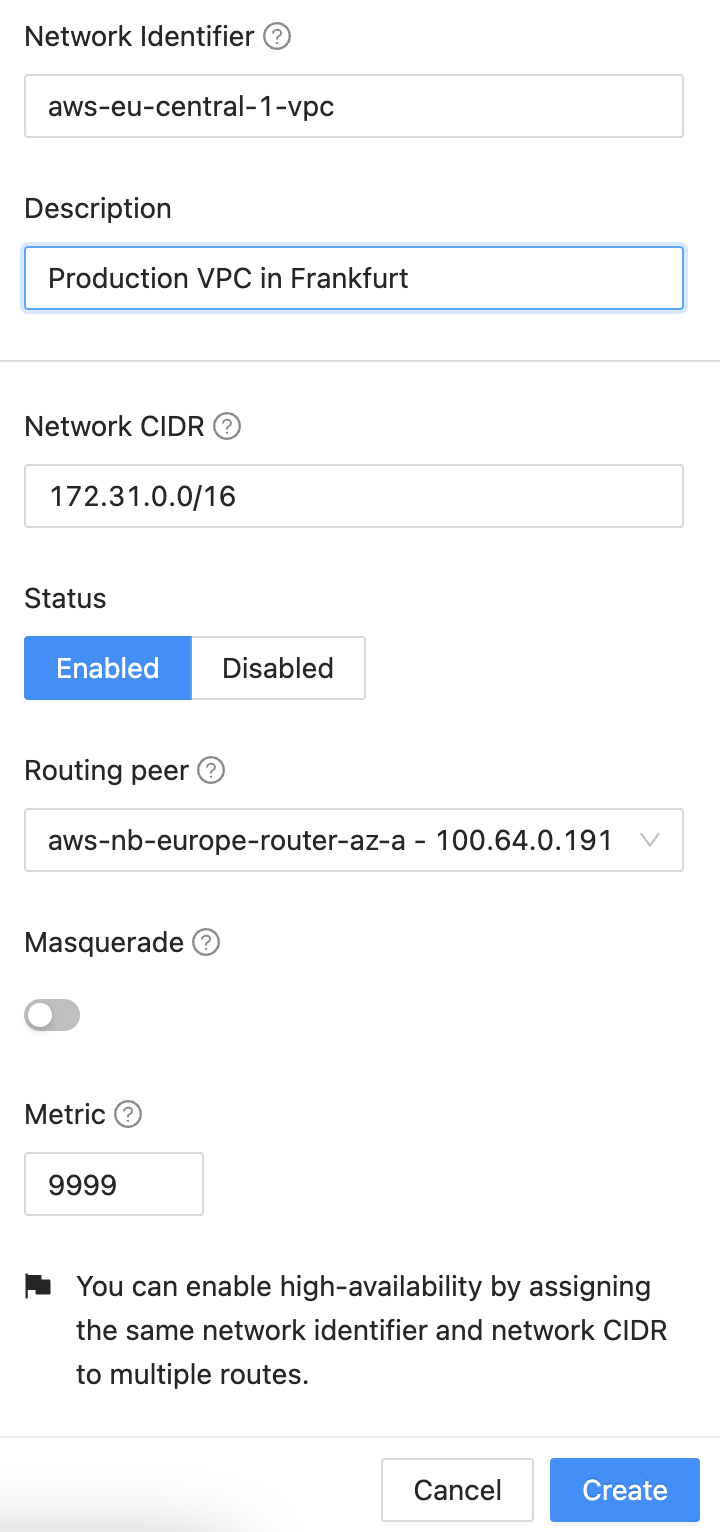
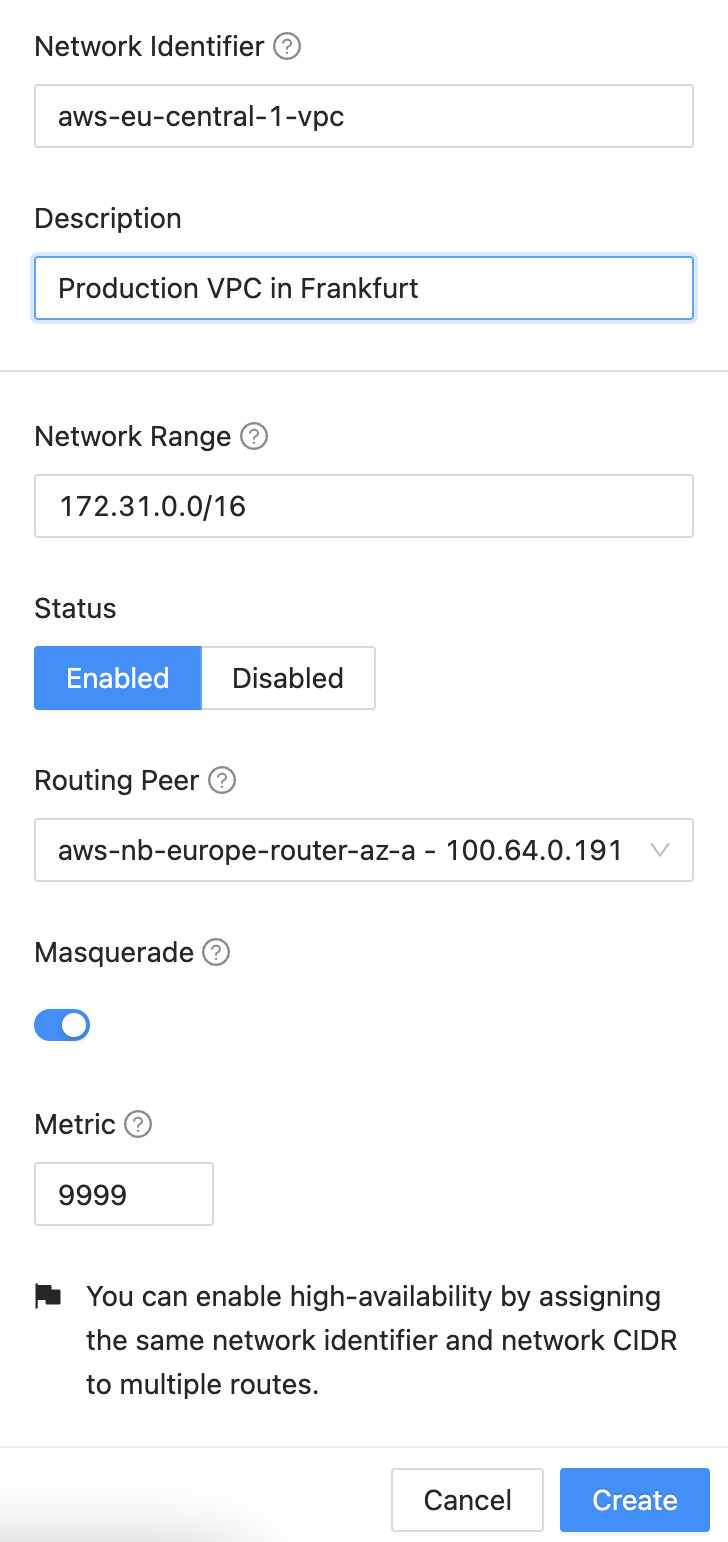
Add network routes documentation

diff --git a/docs/how-to-guides/routes.md b/docs/how-to-guides/routes.md
@@ -17,22 +17,22 @@ In these cases, you can configure network routes assigning routing peers to conn
 
 ## Concepts
 ### Network routes
-A network route describes the network you want to connect with your NetBird peers. It has an identifier, a network CIDR, a routing peer, and some parameters available for managing priority and masquerading.
+A network route describes the network you want to connect with your NetBird peers. It has an identifier, a network range, a routing peer, and some parameters available for managing priority and masquerading.
 :::info
 Network routes is available for NetBird v0.9.0 or later.
 :::
-### Network identifiers and CIDRs
-Network identifiers are names for each network you want to route traffic from your peers, and network CIDR are IP ranges in CIDR notation which refers to an external network. The combination of identifiers and these ranges makes a single network.
+### Network identifiers and ranges
+Network identifiers are names for each network you want to route traffic from your peers, and ranges are IP ranges declared in CIDR notation which refers to an external network. The combination of identifiers and these ranges makes a single network.
 ### Routing peer
 A routing peer is a node that will route packets between your routed network and the other NetBird peers.
 :::info
 Only Linux OS nodes can be assigned as routing peers.
 :::
 ### High availability routes
-A highly available route is a combination of multiple routes with the same network identifier and CIDR. They have different routing peers offering high-available paths for communication between your peers and external networks.
+A highly available route is a combination of multiple routes with the same network identifier and ranges. They have different routing peers offering high-available paths for communication between your peers and external networks.
 Nodes connected to routing peers will choose one of them to route packets to external networks based on connection type and defined metrics.
 ### Masquerade
-Masquerade hides other NetBird network IPs behind the routing peer local address when accessing the target Network CIDR. This option allows access to your private networks without configuring routes on your local routers or other devices.
+Masquerade hides other NetBird network IPs behind the routing peer local address when accessing the target Network range. This option allows access to your private networks without configuring routes on your local routers or other devices.
 
 If you don't enable this option, you must configure a route to your NetBird network in your external network infrastructure.
 ### Metric and priority
@@ -57,6 +57,3 @@ Once you are done filling the route information, you can click on the `create` b
     <img src="/docs/img/how-to-guides/netbird-network-routes-saved-new.png" alt="high-level-dia" width="600" style={{boxShadow: '0 4px 8px 0 rgba(0, 0, 0, 0.2), 0 6px 20px 0 rgba(0, 0, 0, 0.19)'}} />
 </p>
 Done! Now every peer connected to your routing peer will be able to send traffic to your external network.
-
-### Masquerading your NetBird traffic
-Configuring a route is enough to route packets from your NetBird peers to your external networks, but in order to make the communication
